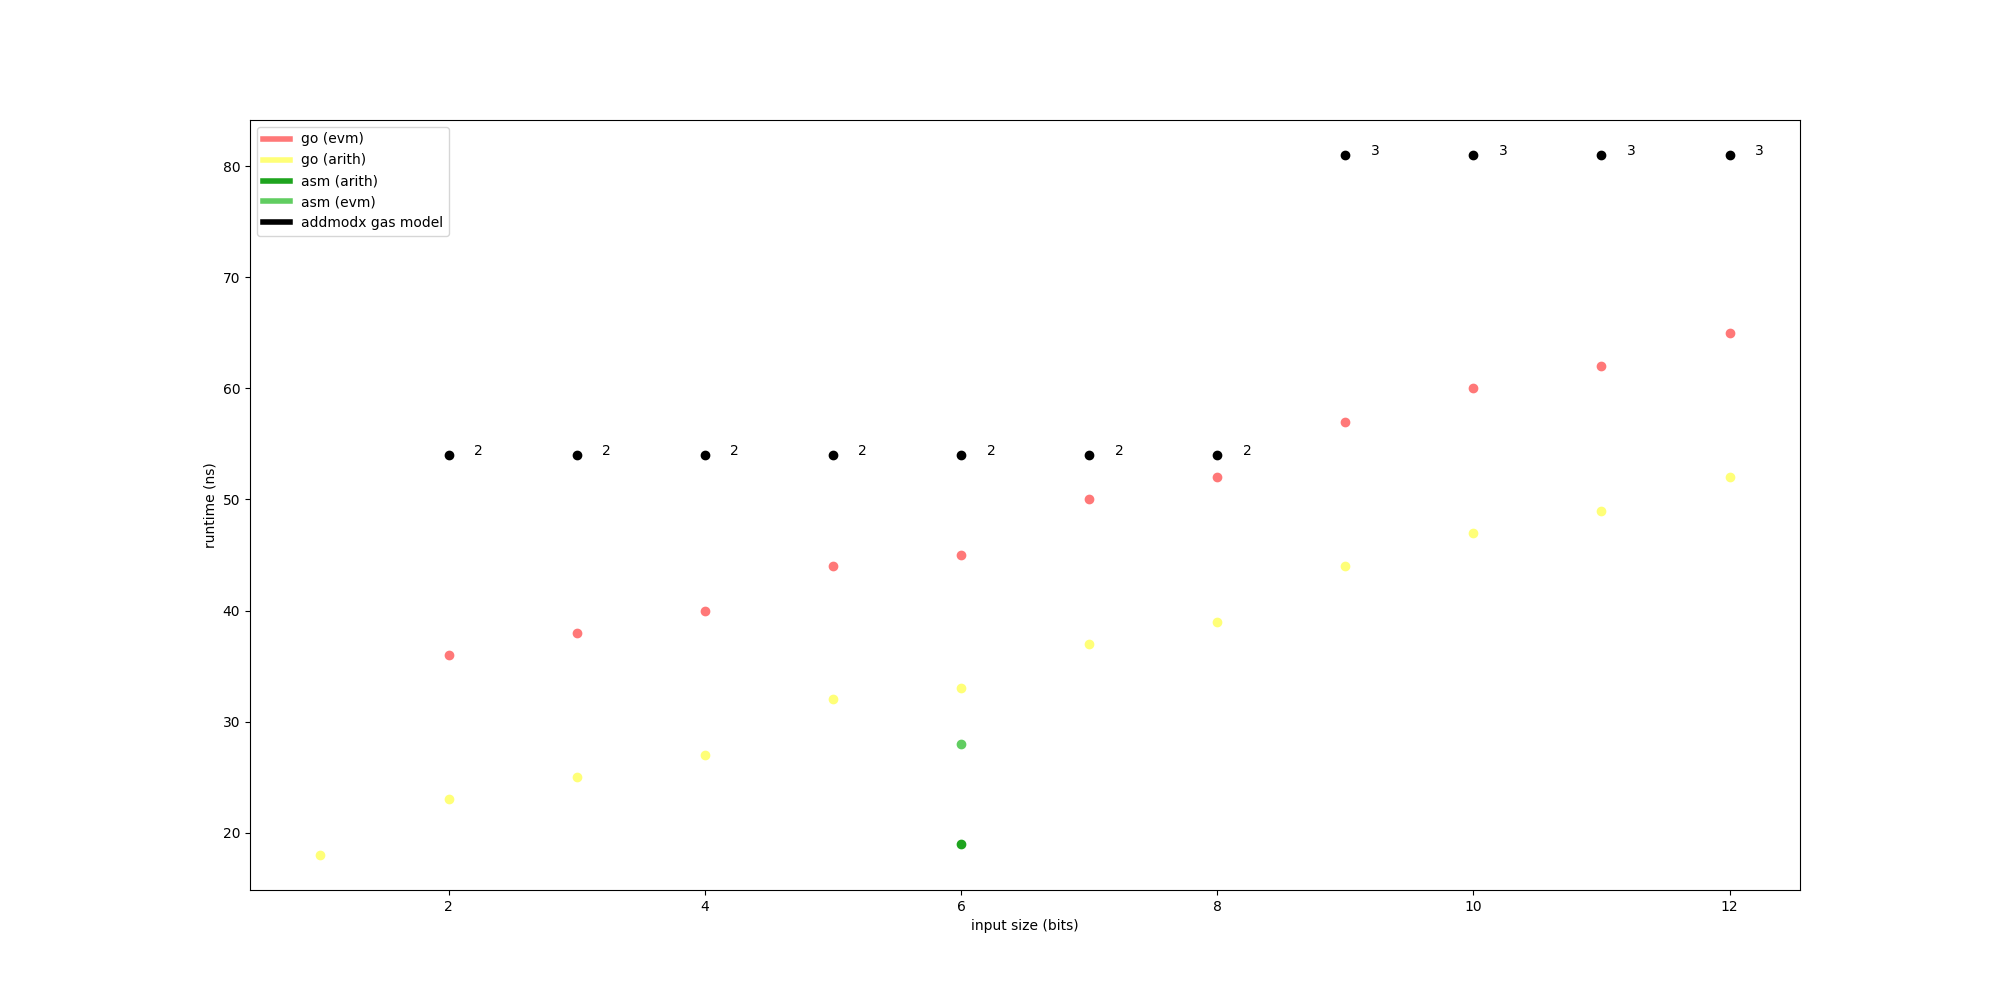
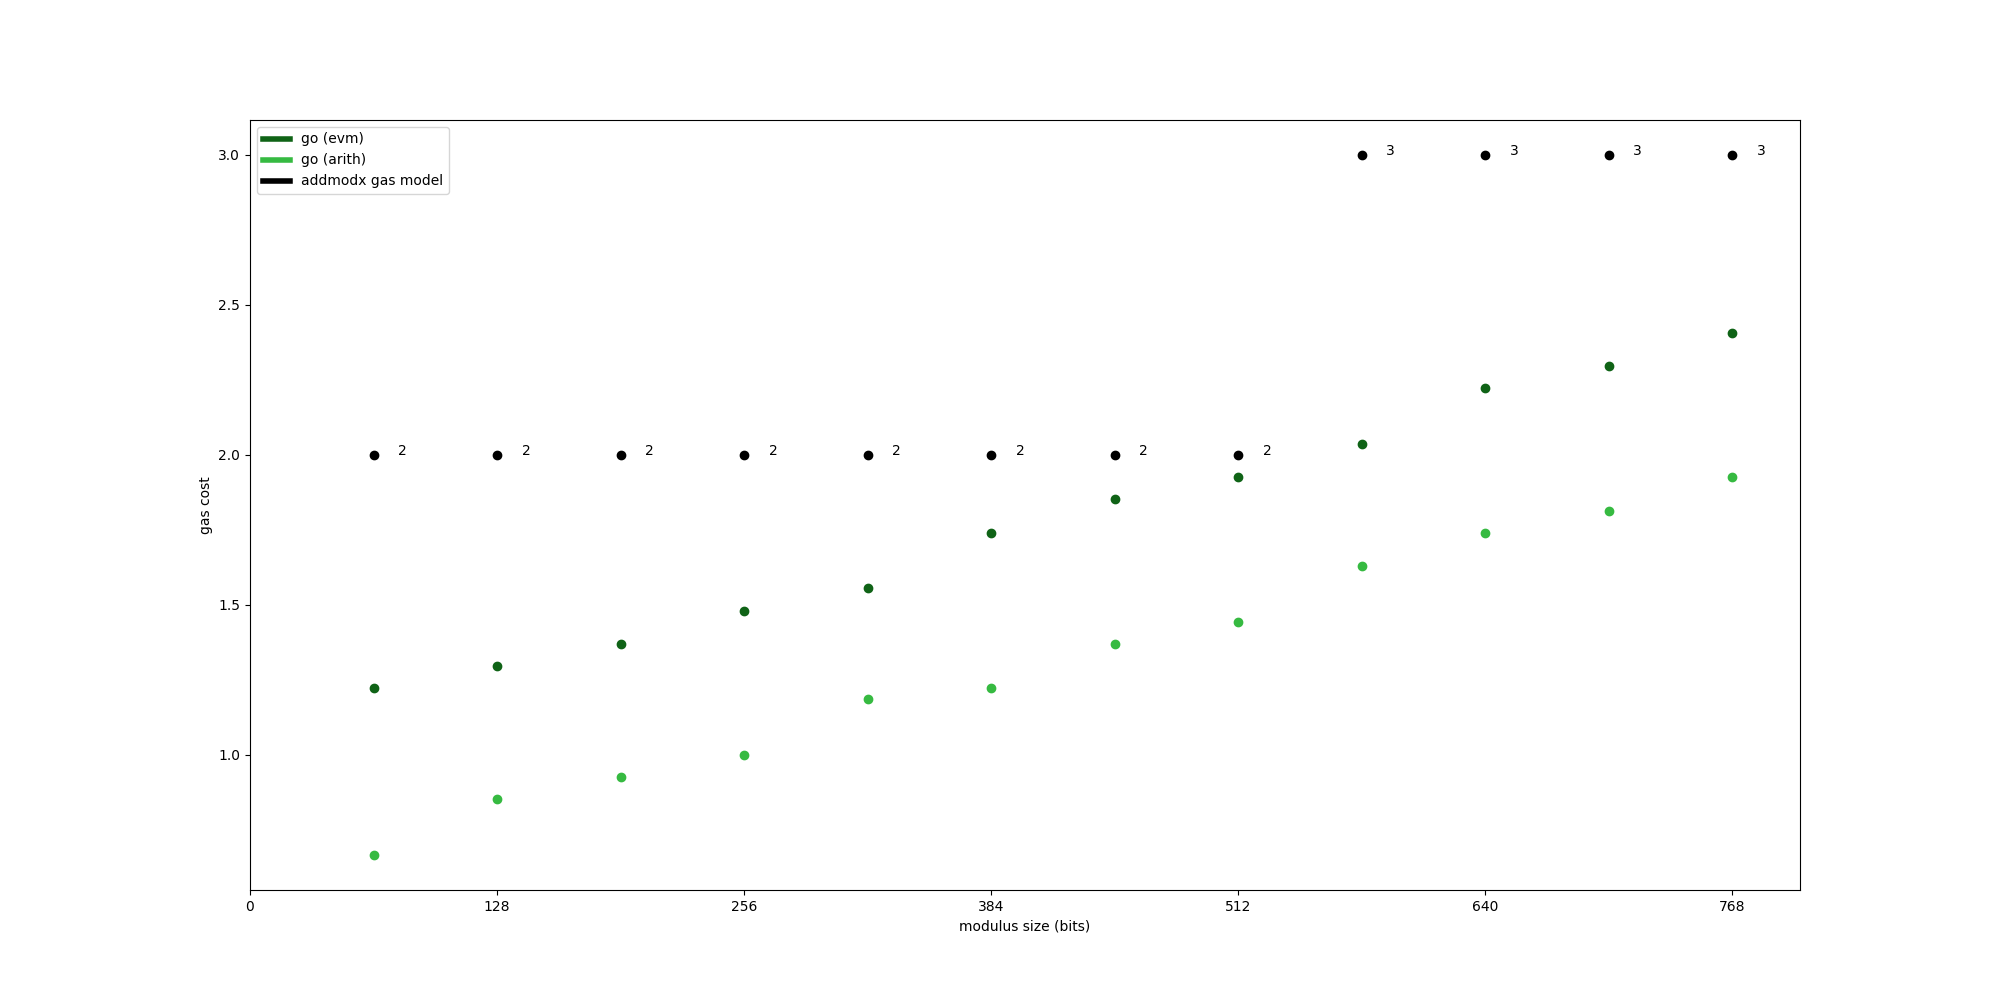
update charts and plot code

Changed region(s): [[0.124, 0.124, 0.217, 0.248], [0.465, 0.899, 0.558, 0.93], [0.093, 0.465, 0.124, 0.527]]

diff --git a/plot.py b/plot.py
@@ -16,14 +16,12 @@ from matplotlib.pyplot import figure
 # 25 ns / gas
 GAS_RATE = 27.0
 
-evm_op_color = "#ff7878"
-go_arith_be_color = "#E24C4C"
+arith_op_color = "#36ba41"
 
-arith_op_color = "#ffff78"
-go_arith_le_color = "#a0a011"
+evm_op_color = "#0f6316"
 
-asm384_op_color = "#61CD61"
-asm384_arith_color = "#1EA41E"
+asm384_op_color = "#871215"
+asm384_arith_color = "#c2363a"
 
 model_color = "black"
 
@@ -39,6 +37,7 @@ class ScatterPlotEntry():
         self.label = None
         self.marker = None
         self.annotate = False
+        self.is_model = False
 
     def add_datapoint(self, bit_width, time_ns):
         self.x_vals.append(int(bit_width))
@@ -167,20 +166,28 @@ def scatterplot_ns_data(fname: str, name: str, args):
     legend_lines = []
     legend_labels = []
 
-    plt.xlabel("input size (bits)")
-    plt.ylabel("runtime (ns)")
+    plt.xlabel("modulus size (bits)")
+    plt.ylabel("gas cost")
 
     for i, entry in enumerate(args):
        assert len(entry.x_vals) == len(entry.y_vals)
         
        for x, y in zip(entry.x_vals, entry.y_vals):
            if entry.annotate:
-               ax.annotate(int(y/GAS_RATE), (float(x) + 0.2, float(y)))
+               ax.annotate(int(y), (float(x) + 0.2, float(y)))
 
-       ax.plot(entry.x_vals, entry.y_vals, entry.marker, color=entry.color, label=entry.label)
+       x_vals = entry.x_vals
+       y_vals = entry.y_vals
+       if not entry.is_model:
+           y_vals = [val / GAS_RATE for val in y_vals]
+
+       ax.plot(x_vals, y_vals, entry.marker, color=entry.color, label=entry.label)
 
        legend_lines.append(Line2D([0], [0], color=entry.color, lw=4))
        legend_labels.append(entry.label)
+
+    x_ticks = ax.get_xticks()[:-1]
+    ax.set_xticks(x_ticks, labels=[int(val * 64) for val in x_ticks])
 
     #x_axis_labels = [str(i*64) for i in range(1, len_x+1)]
     #x_axis_pos = np.arange(1,len_x + 1)
@@ -326,11 +333,12 @@ addmodx_model = [np.float64(3), np.float64(30)]
 
 addmodx_model_entry = ScatterPlotEntry()
 addmodx_model_entry.x_vals = addmodx_fall_back_evm.x_vals
-addmodx_model_entry.y_vals = [math.ceil(y_val / GAS_RATE) * GAS_RATE for y_val in eval_model(addmodx_model, addmodx_model_entry.x_vals)]
+addmodx_model_entry.y_vals = [math.ceil(y_val / GAS_RATE) for y_val in eval_model(addmodx_model, addmodx_model_entry.x_vals)]
 addmodx_model_entry.color = "black"
 addmodx_model_entry.label = "addmodx gas model"
 addmodx_model_entry.marker = "o"
 addmodx_model_entry.annotate = True
+addmodx_model_entry.is_model = True
 
 # submodx
 submodx_model_entry = copy.deepcopy(addmodx_model_entry)
@@ -342,11 +350,12 @@ mulmodx_model = [np.float64(2.30), np.float64(-2), np.float64(32)]
 
 mulmodx_model_entry = ScatterPlotEntry()
 mulmodx_model_entry.x_vals = mulmodx_fall_back_evm.x_vals
-mulmodx_model_entry.y_vals = [math.ceil(y_val / GAS_RATE) * GAS_RATE for y_val in eval_model(mulmodx_model, mulmodx_model_entry.x_vals)]
+mulmodx_model_entry.y_vals = [math.ceil(y_val / GAS_RATE) for y_val in eval_model(mulmodx_model, mulmodx_model_entry.x_vals)]
 mulmodx_model_entry.color = "black"
 mulmodx_model_entry.label = "mulmodx gas model"
 mulmodx_model_entry.marker = "o"
 mulmodx_model_entry.annotate = True
+mulmodx_model_entry.is_model = True
 
 
 # setmod
@@ -356,21 +365,29 @@ setmod_model = [np.float64(110), np.float64(730)]
 
 setmod_model_entry = ScatterPlotEntry()
 setmod_model_entry.x_vals = setmod_arith.x_vals
-setmod_model_entry.y_vals = [math.ceil(y_val / GAS_RATE) * GAS_RATE for y_val in eval_model(setmod_model, setmod_model_entry.x_vals)]
+setmod_model_entry.y_vals = [math.ceil(y_val / GAS_RATE) for y_val in eval_model(setmod_model, setmod_model_entry.x_vals)]
 setmod_model_entry.color = "black"
 setmod_model_entry.label = "setmod gas model"
 setmod_model_entry.marker = "o"
 setmod_model_entry.annotate = True
+setmod_model_entry.is_model = True
 
 def plot_op_benchmarks():
     # graphs 1: scatterplot, addmodx.  entries: addsub-model, addmodx-fallback-evm, addmodx-fallback-arith, addmodx-asm384-arith, addmodx-asm384-evm
-    scatterplot_ns_data("charts/addmodx.png", "addmodx", [addmodx_fall_back_evm, addmodx_fall_back_arith, addmodx_asm384_arith, addmodx_asm384_evm, addmodx_model_entry])
+    scatterplot_ns_data("charts/addmodx-asm.png", "addmodx", [addmodx_fall_back_evm, addmodx_fall_back_arith, addmodx_asm384_arith, addmodx_asm384_evm, addmodx_model_entry])
+    # graphs 2: scatterplot submodx.  entries: addsub-model, submodx-fallback-evm, submodx-fallback-arith, submodx-asm384-arith, submodx-asm384-evm
+    scatterplot_ns_data("charts/submodx-asm.png", "submodx", [submodx_fall_back_evm, submodx_fall_back_arith, submodx_model_entry])
+    # graphs 3: scatterplot mulmodx.  entries: mulmodx-model, mulmodx-fallback-evm, mulmodx-fallback-arith, mulmodx-asm384-arith, mulmodx-asm384-evm
+    scatterplot_ns_data("charts/mulmodx-asm.png", "addmodx", [mulmodx_fall_back_evm, mulmodx_fall_back_arith, mulmodx_asm384_arith, mulmodx_asm384_evm, mulmodx_model_entry])
+    # graphs 4: scatterplot setmod.  entries: setmod-model, setmod-arith
+    scatterplot_ns_data("charts/setmod.png", "setmod", [setmod_arith, setmod_model_entry])
+    #without asm
+    # graphs 1: scatterplot, addmodx.  entries: addsub-model, addmodx-fallback-evm, addmodx-fallback-arith, addmodx-asm384-arith, addmodx-asm384-evm
+    scatterplot_ns_data("charts/addmodx.png", "addmodx", [addmodx_fall_back_evm, addmodx_fall_back_arith, addmodx_model_entry])
     # graphs 2: scatterplot submodx.  entries: addsub-model, submodx-fallback-evm, submodx-fallback-arith, submodx-asm384-arith, submodx-asm384-evm
     scatterplot_ns_data("charts/submodx.png", "submodx", [submodx_fall_back_evm, submodx_fall_back_arith, submodx_model_entry])
     # graphs 3: scatterplot mulmodx.  entries: mulmodx-model, mulmodx-fallback-evm, mulmodx-fallback-arith, mulmodx-asm384-arith, mulmodx-asm384-evm
-    scatterplot_ns_data("charts/mulmodx.png", "addmodx", [mulmodx_fall_back_evm, mulmodx_fall_back_arith, mulmodx_asm384_arith, mulmodx_asm384_evm, mulmodx_model_entry])
-    # graphs 4: scatterplot setmod.  entries: setmod-model, setmod-arith
-    scatterplot_ns_data("charts/setmod.png", "setmod", [setmod_arith, setmod_model_entry])
+    scatterplot_ns_data("charts/mulmodx.png", "addmodx", [mulmodx_fall_back_evm, mulmodx_fall_back_arith, mulmodx_model_entry])
 
 def print_cost_model_table():
     print("| Modulus Size | MULMODX cost | ADDMODX and SUBMODX cost | SETMOD cost |")
